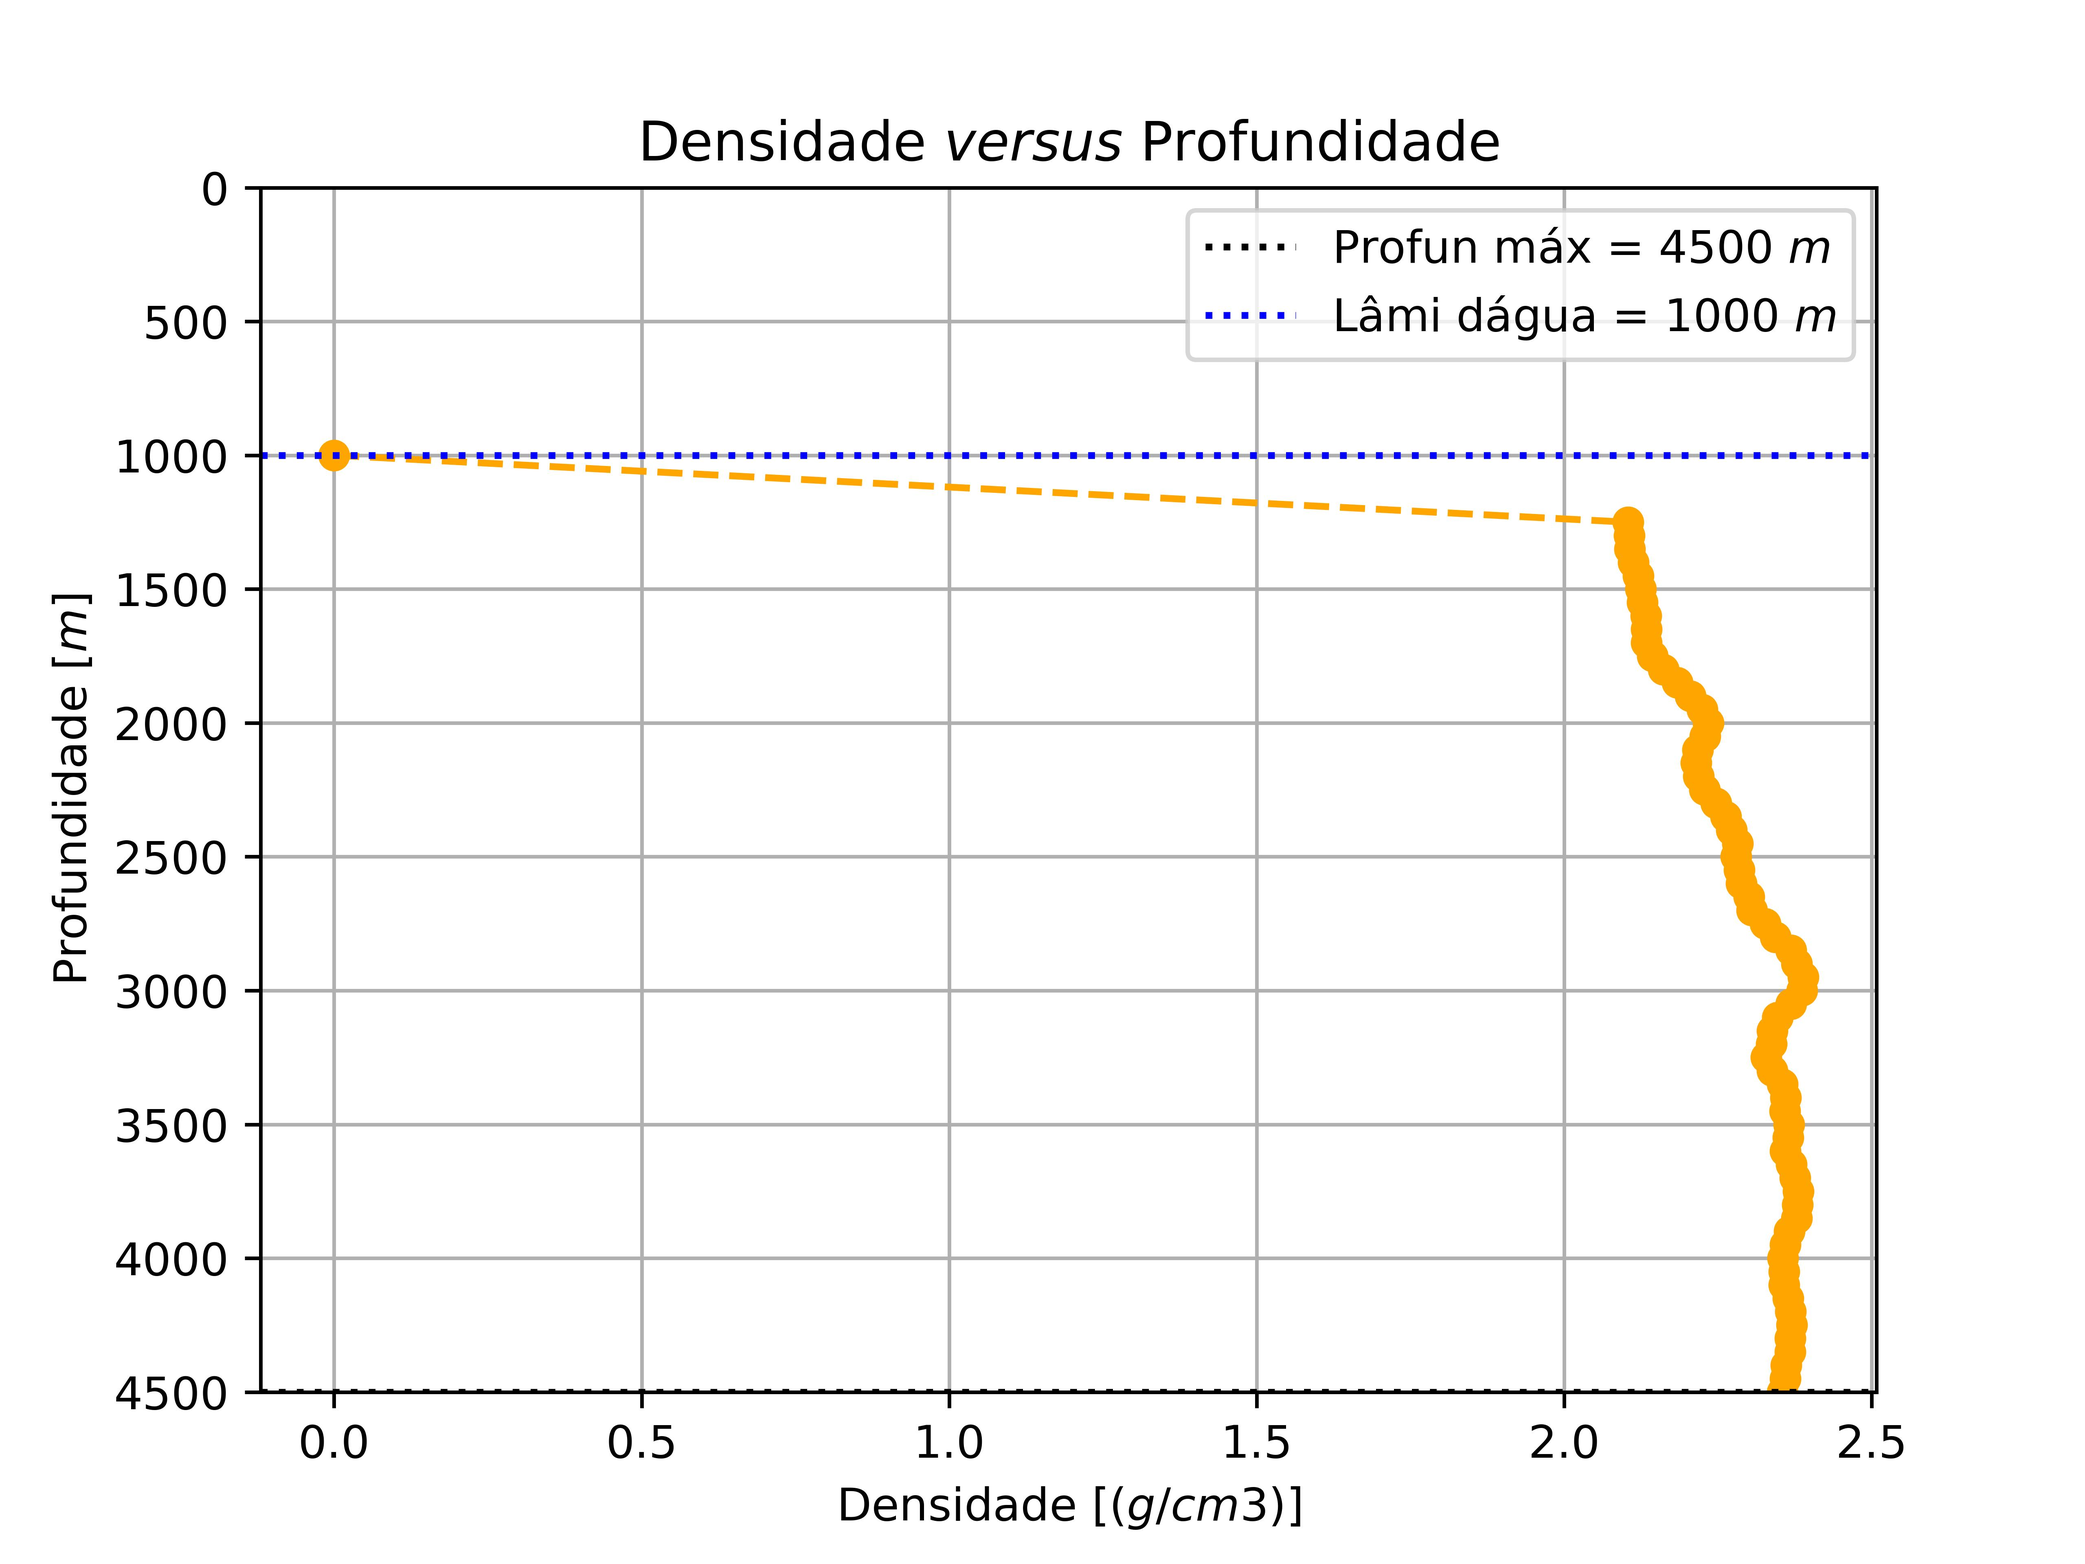
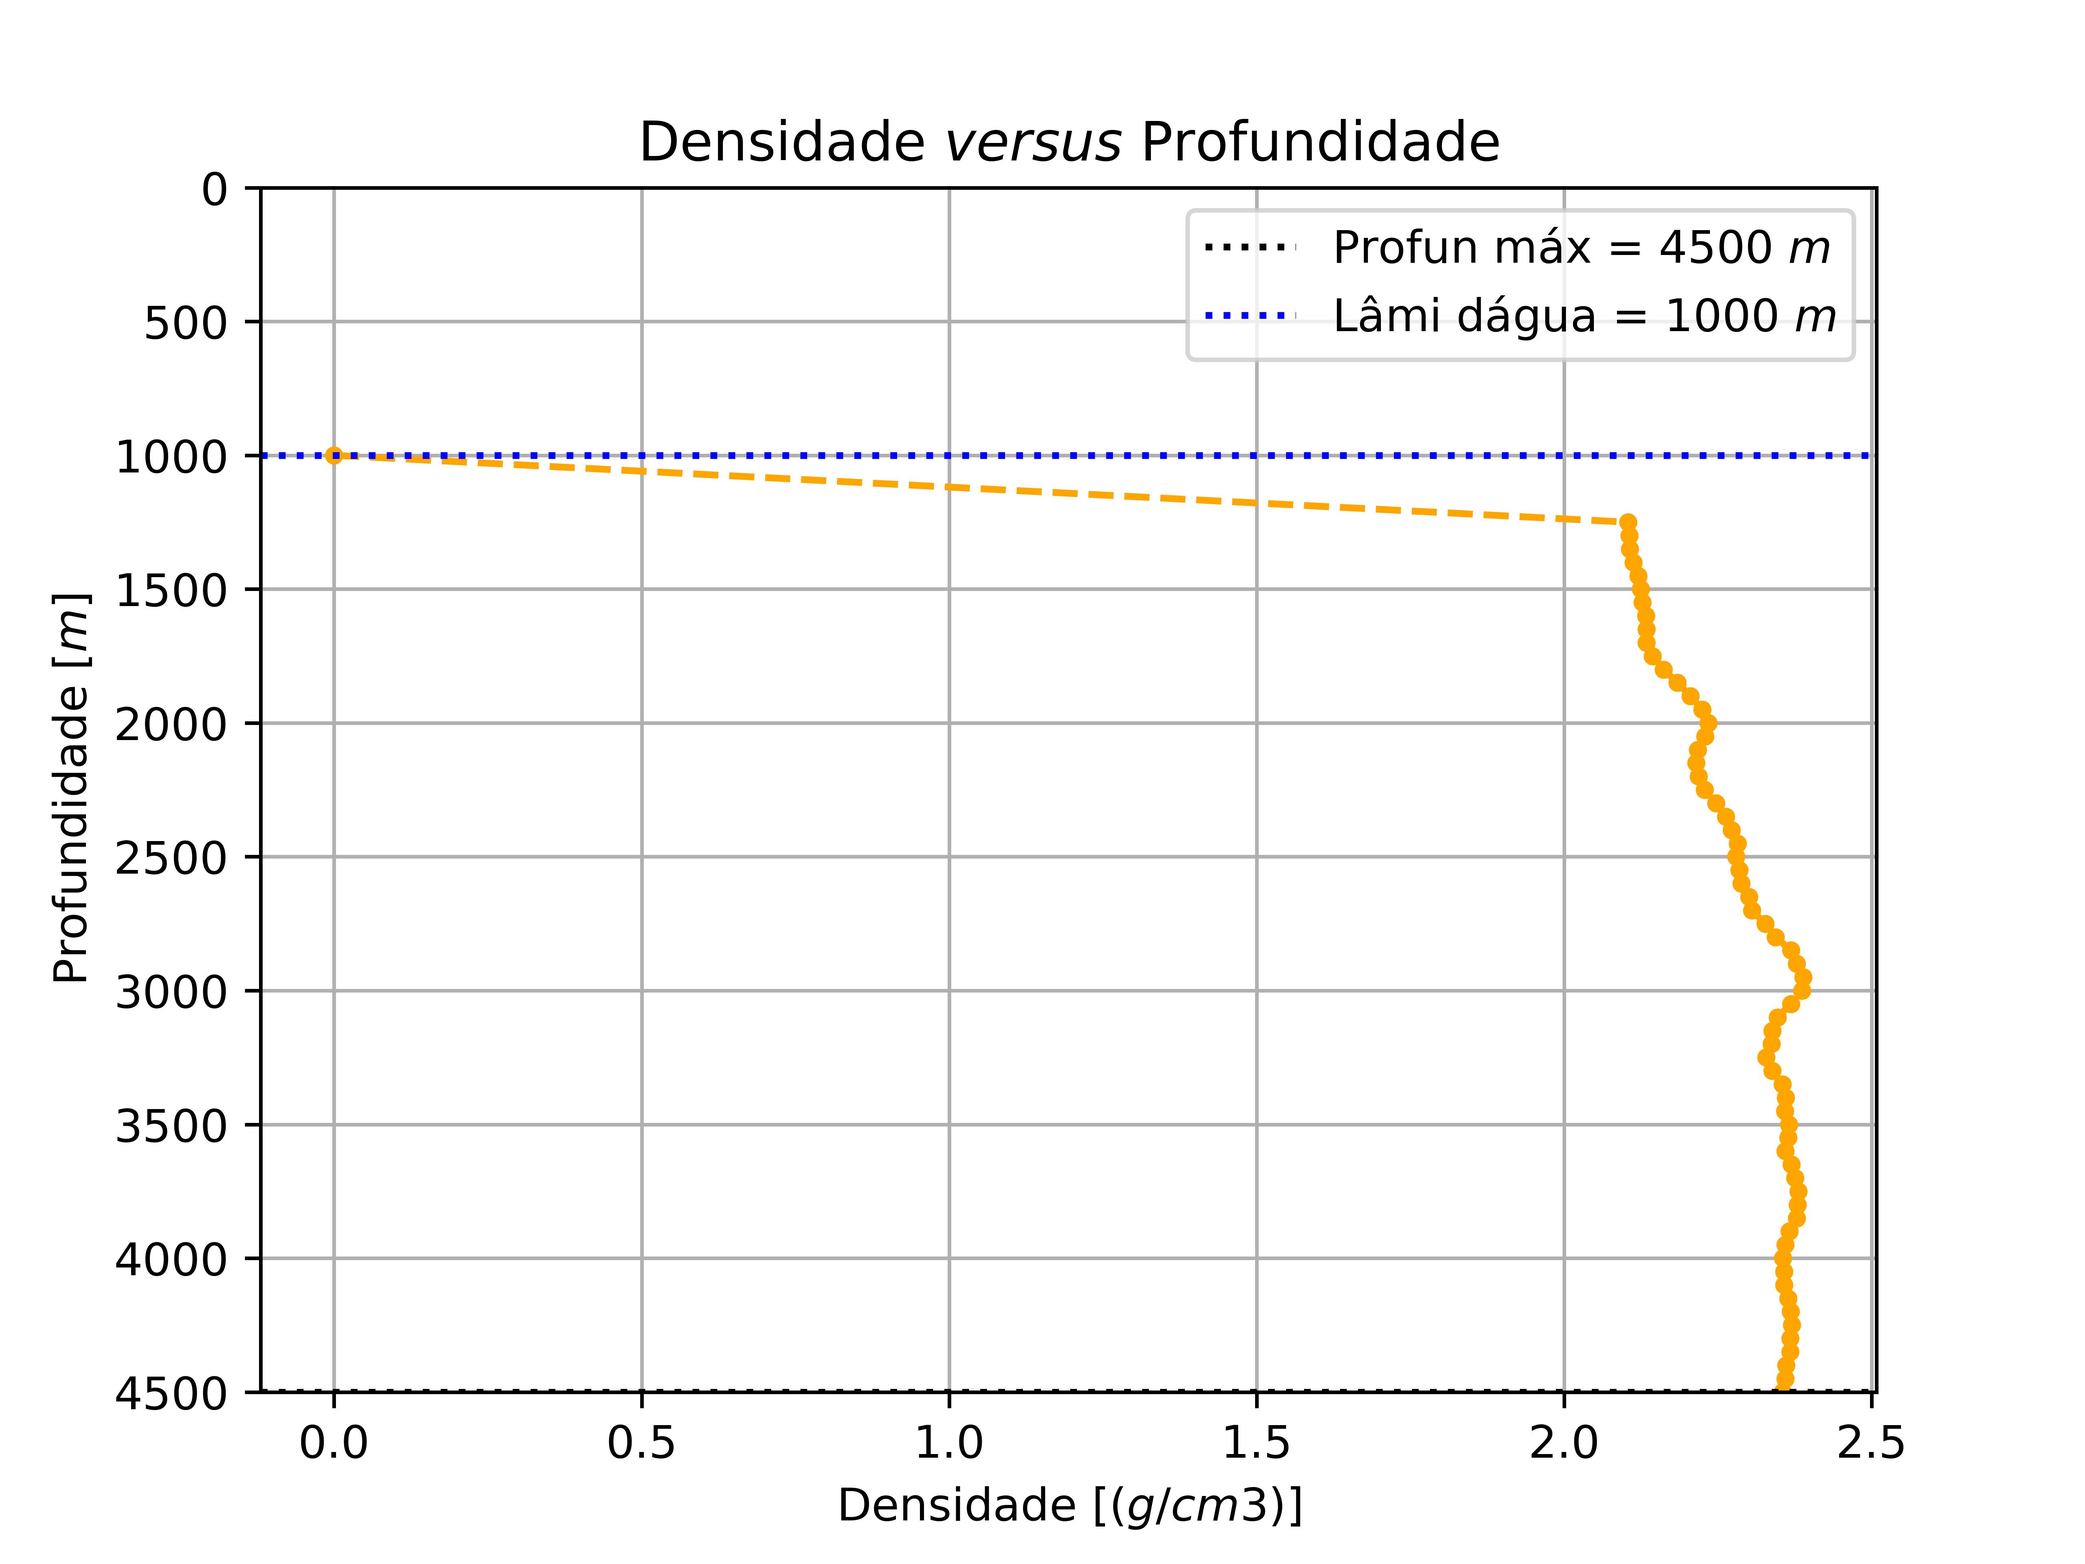
3.3 Updated graphics and began Morh Circle's

Changed region(s): [[0.75, 0.3438, 0.875, 0.9062], [0.1562, 0.2812, 0.1875, 0.3125]]

diff --git a/geomec_classes.py b/geomec_classes.py
@@ -5,8 +5,6 @@ import numpy as np
 import pandas as pd
 import matplotlib.pyplot as plt
 import classes
-from pandas import read_excel
-from pandas.core.methods.selectn import SelectNSeries
 
 
 class Overburden:
@@ -52,7 +50,7 @@ class Overburden:
 
     @staticmethod
     def grad(tensi, depth):
-        return tensi / (0.1704 * (depth))
+        return tensi / (0.1704 * depth)
 
     def start(self):
         """
@@ -146,7 +144,7 @@ class Overburden:
         self.tensionDF['Tension'] = self.tensionDF['Tension'].loc[(self.tensionDF['Tension'] != 0)]
         self.gradDF['Overburden'] = self.gradDF['Overburden'].loc[(self.gradDF['Overburden'] != 0)]
 
-        plt.plot(self.tensionDF, self.wellDF['prof (m)'], color='C12', marker='o', ls='--')
+        plt.plot(self.tensionDF, self.wellDF['prof (m)'], color='C12', marker='o', markersize=3, ls='--')
         plt.xlabel('Tensão [$psi$]')
         plt.ylabel('Profundidade [$m$]')
         plt.title('Pressão da sobrecarga $versus$ profundidade')
@@ -156,7 +154,7 @@ class Overburden:
         plt.savefig(f'output\\{self.name} - Pressão sobrecarga.jpg', format='jpg', dpi=800)
         plt.show()
 
-        plt.plot(self.gradDF, self.totalprofDF, color='purple', marker='o', ls='--')
+        plt.plot(self.gradDF, self.totalprofDF, color='purple', marker='o', markersize=3, ls='--')
         plt.axline((0, self.totalprofDF.max()),(1, self.totalprofDF.max()), color='black', ls=':',
                    label=f'Profun máx = {self.totalprofDF.max()} $m$')
         plt.axline((0, self.water_depth), (1, self.water_depth), color='blue', ls=':',
@@ -171,7 +169,7 @@ class Overburden:
         plt.savefig(f'output\\{self.name} - Gradiente de sobrecarga.jpg', format='jpg', dpi=800)
         plt.show()
         
-        plt.plot(self.wellDF['ρ (g/cm3)'], self.totalprofDF, color='orange', marker='o', ls='--')
+        plt.plot(self.wellDF['ρ (g/cm3)'], self.totalprofDF, color='orange', marker='o', markersize=3, ls='--')
         plt.axline((0, self.totalprofDF.max()),(1, self.totalprofDF.max()), color='black', ls=':',
                    label=f'Profun máx = {self.totalprofDF.max()} $m$')
         plt.axline((0, self.water_depth), (1, self.water_depth), color='blue', ls=':',
@@ -188,7 +186,7 @@ class Overburden:
         if self.wellDF['Δt (μs/ft)'] is not None:
             self.wellDF.loc[self.wellDF['Δt (μs/ft)'] == 0, 'Δt (μs/ft)'] = np.nan  # exclude 0 values
 
-            plt.plot(self.wellDF['Δt (μs/ft)'], self.totalprofDF, color='orange', marker='o', ls='--')
+            plt.plot(self.wellDF['Δt (μs/ft)'], self.totalprofDF, color='orange', marker='o', markersize=3, ls='--')
             plt.axline((0, self.totalprofDF.max()),(1, self.totalprofDF.max()), color='black', ls=':',
                        label=f'Profun máx = {self.totalprofDF.max()} $m$')
             plt.axline((0, self.water_depth), (1, self.water_depth), color='blue', ls=':',
@@ -317,7 +315,7 @@ class Bourgoyne:
         self.density()
 
     def plotporosprof(self):
-        plt.plot(self.wellDF['prof (m)'], self.wellDF['Porosidade'], color='red', marker='o', ls='--')
+        plt.plot(self.wellDF['prof (m)'], self.wellDF['Porosidade'], color='red', marker='o', markersize=3, ls='--')
         plt.ylabel('Porosidade')
         plt.xlabel('Profundidade [$m$]')
         plt.title('Porosidade versus profundidade')
@@ -352,7 +350,7 @@ class Bourgoyne:
 
     def plotdensiprof(self):
         self.D = np.linspace(self.wellDF['prof (m)'].min(), self.wellDF['prof (m)'].max(), self.points)
-        plt.plot(self.density(), self.D, color='green')
+        plt.plot(self.density(), self.D, color='green', markersize=3)
         plt.grid()
         plt.title('Densidade versus profundidade')
         plt.xlabel('Densidade')
@@ -379,7 +377,7 @@ class Bourgoyne:
                 self.gradDF[0][i] = self.grad(self.tensionDF[0][i], self.totalprofDF[0][i])
 
         else:
-            raise Exception(f"Code doesn't get up there, wait updates...")
+            raise NotImplementedError(f"Code doesn't get up there, wait updates...")
         self.totalprofDF.columns = ['new prof (m)']
         self.wellDF = pd.concat([self.wellDF, self.totalprofDF], axis=1)
         self.density = pd.DataFrame(self.density())
@@ -399,7 +397,7 @@ class Bourgoyne:
         self.tensionDF['Tension'] = self.tensionDF['Tension'].loc[(self.tensionDF['Tension'] != 0)]
         self.gradDF['Overburden'] = self.gradDF['Overburden'].loc[(self.gradDF['Overburden'] != 0)]
 
-        plt.plot(self.tensionDF, self.totalprofDF, color='C12', marker='o', ls='--')
+        plt.plot(self.tensionDF, self.totalprofDF, color='C12', marker='o', markersize=3, ls='--')
         plt.xlabel('Tensão [$psi$]')
         plt.ylabel('Profundidade [$m$]')
         plt.title('Pressão da sobrecarga $versus$ profundidade')
@@ -409,7 +407,7 @@ class Bourgoyne:
         plt.savefig(f'output\\{self.name} - Pressão sobrecarga.jpg', format='jpg', dpi=800)
         plt.show()
 
-        plt.plot(self.gradDF, self.totalprofDF, color='purple', marker='o', ls='--')
+        plt.plot(self.gradDF, self.totalprofDF, color='purple', marker='o', markersize=3, ls='--')
         plt.axline((0, self.totalprofDF['new prof (m)'].max()), (10, self.totalprofDF['new prof (m)'].max()),
                    color='black', ls=':',
                    label=f'Profun máx = {float(self.totalprofDF.max())} $m$')
@@ -465,8 +463,8 @@ class Multiplot:
         self.tensionDF2['Tension'] = self.tensionDF2['Tension'].loc[(self.tensionDF2['Tension'] != 0)]
         self.gradDF2['Overburden'] = self.gradDF2['Overburden'].loc[(self.gradDF2['Overburden'] != 0)]
 
-        plt.plot(self.tensionDF, self.wellDF['prof (m)'], color='red', marker='o', ls='--', label='Well 1')
-        plt.plot(self.tensionDF2, self.wellDF2['prof (m)'], color='C12', marker='o', ls='--', label='Well 2')
+        plt.plot(self.tensionDF, self.wellDF['prof (m)'], color='red', marker='o', markersize=3, ls='--', label='Well 1')
+        plt.plot(self.tensionDF2, self.wellDF2['prof (m)'], color='C12', marker='o', markersize=3, ls='--', label='Well 2')
         plt.xlabel('Tensão [$psi$]')
         plt.ylabel('Profundidade [$m$]')
         plt.title('Pressão da sobrecarga $versus$ profundidade')
@@ -481,8 +479,8 @@ class Multiplot:
         plt.savefig(f'output\\Multiplot - Pressão da sobrecarga.jpg', format='jpg', dpi=800)
         plt.show()
 
-        plt.plot(self.gradDF, self.totalprofDF, color='purple', marker = 'o', ls = '--', label='Well 1')
-        plt.plot(self.gradDF2, self.totalprofDF2, color='yellow', marker = 'o', ls = '--', label='Well 2')
+        plt.plot(self.gradDF, self.totalprofDF, color='purple', marker = 'o', markersize=3, ls = '--', label='Well 1')
+        plt.plot(self.gradDF2, self.totalprofDF2, color='yellow', marker = 'o', markersize=3, ls = '--', label='Well 2')
         plt.axline((0, self.totalprofDF.max()), (10, self.totalprofDF.max()), color='black', ls=':',
                    label=f'Profun máx well 1 = {self.totalprofDF.max()} $m$')
         plt.axline((0, self.totalprofDF2.max()), (10, self.totalprofDF2.max()), color='gray', ls=':',
@@ -504,7 +502,7 @@ class NormalTensionandGrad:
     Calculate the normal pore tension and the normal pore pressure gradient.
     Parameters
     ----------
-    wellDF : DataFrame
+    wellDF : pd.DataFrame
         Dataframe containing well information
     wellinfoDF : DataFrame
         Dataframe containing environment information
@@ -575,7 +573,7 @@ class NormalTensionandGrad:
         self.tensionDF['Normal Pore Tension'] = self.tensionDF['Normal Pore Tension'].loc[(self.tensionDF['Normal Pore Tension'] != 0)]
         self.gradDF['Normal Pore Pressure Gradient'] = self.gradDF['Normal Pore Pressure Gradient'].loc[(self.gradDF['Normal Pore Pressure Gradient'] != 0)]
 
-        plt.plot(self.tensionDF, self.wellDF['prof (m)'], color='C12', marker='o', ls='--')
+        plt.plot(self.tensionDF, self.wellDF['prof (m)'], color='C12', marker='o', markersize=3, ls='--')
         plt.xlabel('Tensão [$psi$]')
         plt.ylabel('Profundidade [$m$]')
         plt.title('Pressão de poros normal $versus$ profundidade')
@@ -585,7 +583,7 @@ class NormalTensionandGrad:
         plt.savefig(f'output\\{self.name} - Pressão de poros normal.jpg', format='jpg', dpi=800)
         plt.show()
 
-        plt.plot(self.gradDF, self.totalprofDF, color='purple', marker='o', ls='--')
+        plt.plot(self.gradDF, self.totalprofDF, color='purple', marker='o', markersize=3, ls='--')
         plt.axline((0, self.totalprofDF.max()), (1, self.totalprofDF.max()), color='black', ls=':',
                    label=f'Profun máx = {self.totalprofDF.max()} $m$')
         plt.axline((0, self.water_depth), (1, self.water_depth), color='blue', ls=':',
@@ -607,15 +605,15 @@ class Eaton:
 
         Parameters
         ----------
-        wellDF : dict or Any
+        wellDF: dict or Any
             Dataframe containing well information.
         name : str
             Parameter name (used for exporting .xlsx).
             
         top : int
             Point belonging to the top of the underpressurized zone.
-        water : [0,1]
-            Set if there is water layer. 
+        sumwater : [0,1]
+            Set if it will sum the water layer.
     """
     def __init__(self, wellDF, wellinfoDF, name, top, exponum, sumwater=None):
         self.wellDF = wellDF
@@ -676,7 +674,7 @@ class Eaton:
         
         # Cleaning zero values for Tension and overburden #
         #self.gradDF['Overburden'] = self.gradDF['Overburden'].loc[(self.gradDF['Overburden'] != 0)]
-        plt.plot(self.gradDF, self.totalprofDF, color='green', marker='o', ls='--', label='Gradiente de pressão de poros')
+        plt.plot(self.gradDF, self.totalprofDF, color='green', marker='o', markersize=3, ls='--', label='Gradiente de pressão de poros')
         plt.axline((0, self.totalprofDF.max()), (1, self.totalprofDF.max()), color='black', ls=':',
                    label=f'Profun máx = {self.totalprofDF.max()} $m$')
         plt.axline((0, self.water_depth), (1, self.water_depth), color='blue', ls=':',
@@ -696,9 +694,9 @@ class Eaton:
 
         # Cleaning zero values for Tension and overburden #
         #self.gradDF['Overburden'] = self.gradDF['Overburden'].loc[(self.gradDF['Overburden'] != 0)]
-        plt.plot(self.gradDF, self.totalprofDF, color='green', marker='o', ls='--', label='Gradiente de pressão de poros')
-        plt.plot(self.wellDF['Overburden'], self.totalprofDF, color='red', marker='o', ls='--', label='Gradiente de sobrecarga')
-        plt.plot(self.wellDF['Normal Pore Pressure Gradient'], self.totalprofDF, color='blue', marker='o', ls='--', 
+        plt.plot(self.gradDF, self.totalprofDF, color='green', marker='o', markersize=3, ls='--', label='Gradiente de pressão de poros')
+        plt.plot(self.wellDF['Overburden'], self.totalprofDF, color='red', marker='o', markersize=3, ls='--', label='Gradiente de sobrecarga')
+        plt.plot(self.wellDF['Normal Pore Pressure Gradient'], self.totalprofDF, color='blue', marker='o', markersize=3, ls='--',
                     label='Gradiente de pressão de poros normal')
         plt.axline((0, self.totalprofDF.max()), (1, self.totalprofDF.max()), color='black', ls=':',
                    label=f'Profun máx = {self.totalprofDF.max()} $m$')
@@ -772,6 +770,13 @@ class Hydrostaticpressure:
         return self.wellDF
 
 class Hydrostaticgradient:
+    """
+    Calculate the hydrostatic gradient of hydrostatic pressure
+    Parameters
+    ------
+    wellDF: dict or Any
+        Dataframe containing well information.
+    """
     def __init__(self, wellDF):
         self.wellDF = wellDF
         self.hidrostaticgradient = pd.DataFrame(np.zeros(len(self.wellDF.index)))
@@ -790,10 +795,20 @@ class Hydrostaticgradient:
     def output(self):
         return self.wellDF
 
-class CollapseGradient:
-    pass
+class CollapseGradient(Hydrostaticgradient):
+    def __init__(self, wellDF):
+        RuntimeWarning('Collapse gradient implemented as Hydrostaticgradient class')
+        super().__init__(wellDF)
 
 class FractureGradient:
+    """
+    Calculate the fracture gradient
+
+    Parameters
+        ----------
+        wellDF: dict or Any
+            Dataframe containing well information.
+    """
     def __init__(self, wellDF):
         self.wellDF = wellDF
         self.fractgrad = pd.DataFrame(np.zeros(len(self.wellDF.index)))
@@ -811,6 +826,16 @@ class FractureGradient:
         return self.wellDF
 
 class Mudweightwindow:
+    """
+    Print and save the figure containing the mug weight window
+
+    Parameters
+        ----------
+        wellDF: dict or Any
+            Dataframe containing well information.
+        name : str
+            Parameter name (used for exporting .png).
+    """
     def __init__(self, wellDF, name):
         self.wellDF = wellDF
         self.name = name
@@ -822,7 +847,7 @@ class Mudweightwindow:
         plt.plot(self.wellDF['Overburden'], self.wellDF['prof (m)'], color='red', marker='o', ls='--',
                  label='Gradiente de sobrecarga', lw=0.5, markersize=3)
         plt.plot(self.wellDF['Hydrostatic Gradient'], self.wellDF['prof (m)'], color='orange', marker='o', ls='--',
-                 label='Gradiente de colapso hidrostático', lw=0.5, markersize=3)
+                 label='Gradiente de colapso', lw=0.5, markersize=3)
         plt.plot(self.wellDF['Fracture Gradient'], self.wellDF['prof (m)'], color='purple', marker='o', ls='--',
                  label='Gradiente de fratura', lw=0.5, markersize=3)
         plt.fill_betweenx(self.wellDF['prof (m)'], self.wellDF['Hydrostatic Gradient'], self.wellDF['Fracture Gradient'],
@@ -832,7 +857,6 @@ class Mudweightwindow:
                    label=f'Profun máx = {self.wellDF["prof (m)"].max()} $m$')
         plt.axline((0, self.wellDF['prof (m)'].min()), (1, self.wellDF['prof (m)'].min()), color='blue', ls=':',
                    label=f'Lâmi dágua = {self.wellDF["prof (m)"].min()} $m$')
-
         plt.xlabel('Gradientes de pressões [$lb/gal$]')
         plt.ylabel('Profundidade [$m$]')
         plt.ylim([0, self.wellDF['prof (m)'].max()])
@@ -842,3 +866,13 @@ class Mudweightwindow:
         plt.grid()
         plt.savefig(f'output\\{self.name} - Mugweightwindow.jpg', format='jpg', dpi=800)
         plt.show()
+
+class MohrCircle:
+    def __init__(self, wellDF=None, name=None,sigma1=None, sigma3=None):
+        self.wellDF = wellDF
+        self.name = name
+        self.sigma1 = sigma1
+        self.sigma3 = sigma3
+
+    def model(self):
+        phi = np.arcsin()
